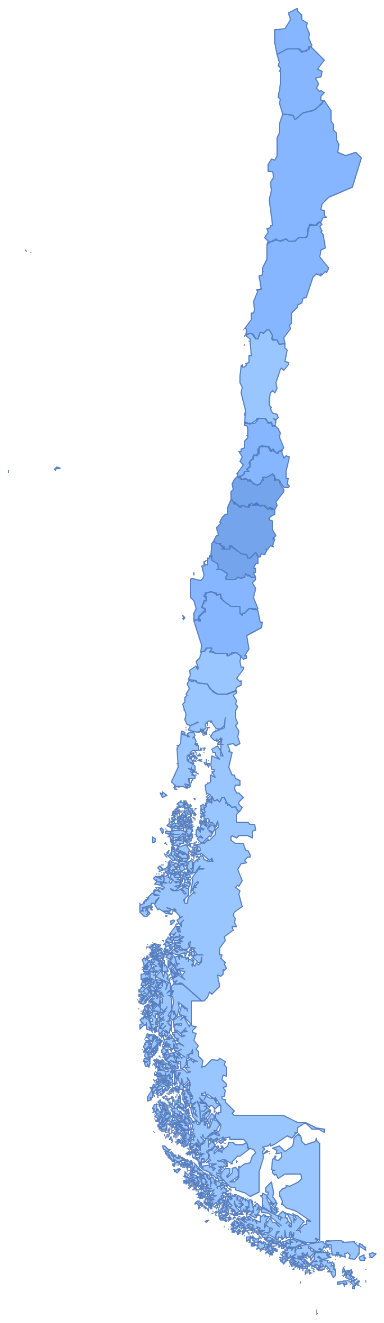
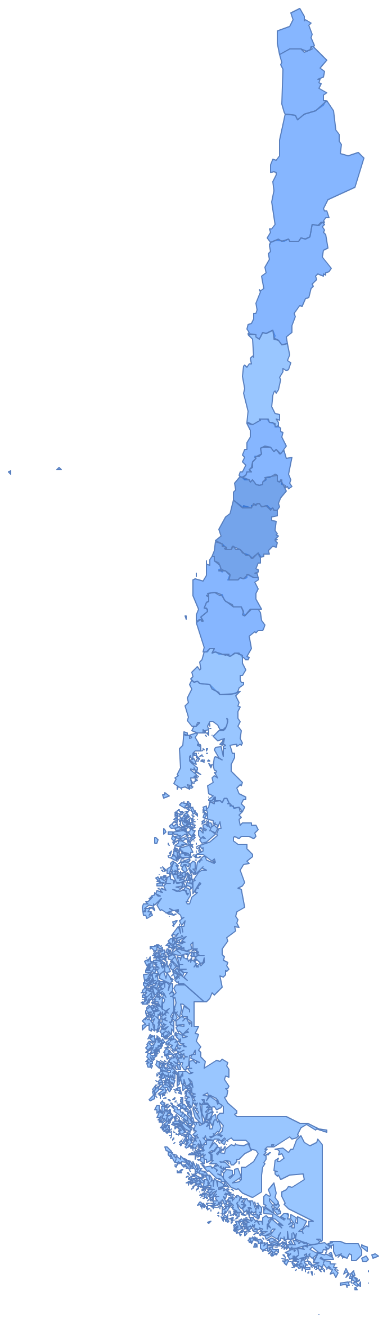
build pdf report ESPINOZA

diff --git a/pdf_reports/espinoza.html b/pdf_reports/espinoza.html
@@ -20,7 +20,7 @@
       width:100%;
       max-width:190mm;
       margin:0 auto;
-      
+
     }
 
     .header{
@@ -161,7 +161,7 @@
           <img class="logo" src="https://images.jumpseller.com/store/familias-y-apellidos/store/logo/Sitio_web.png?1741039595" alt="Apellidos.cl"/>
         </a>
       </div>
-      <div class="meta">Actualizado: 2026-01-04T23:50:48.087Z</div>
+      <div class="meta">Actualizado: 2026-06-24T21:24:44.709Z</div>
     </div>
 
     <h1>Mapa del apellido ESPINOZA</h1>
@@ -170,7 +170,7 @@
     <div class="grid">
       <div class="card">
         <div class="mapWrap">
-          <img class="mapImg" src="https://crcofre.github.io/mapa-apellidos/pdf_maps/espinoza.png?v=1771090377326" alt="Mapa de Chile"/>
+          <img class="mapImg" src="https://crcofre.github.io/mapa-apellidos/pdf_maps/espinoza.png?v=1782490900874" alt="Mapa de Chile"/>
         </div>
       </div>
 
